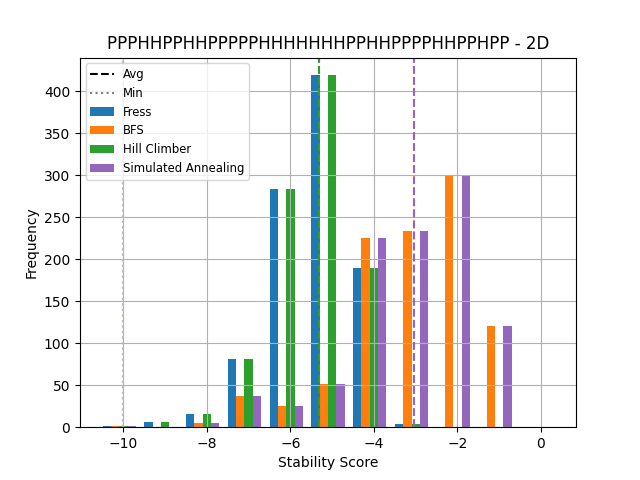
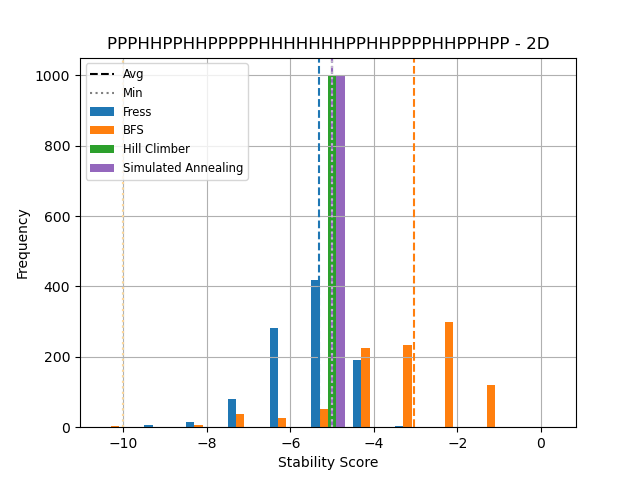
Updated result_plot.py Created all 18 result plots

diff --git a/results_plot.py b/results_plot.py
@@ -102,7 +102,7 @@ def main():
         file_name = f"{dimension}D_{letter}.csv"
     else:
         file_name = f"{dimension}D.csv"
-    folder_paths = ["data/output/fress/", "data/output/bfs/", "data/output/fress/", "data/output/bfs/"]  # Add your folder paths
+    folder_paths = ["data/output/fress/", "data/output/bfs/", "data/output/hillclimber_data/", "data/output/annealing_data/"]  # Add your folder paths
     algorithm_names = ["Fress", "BFS", "Hill Climber", "Simulated Annealing"]
 
     data = []
